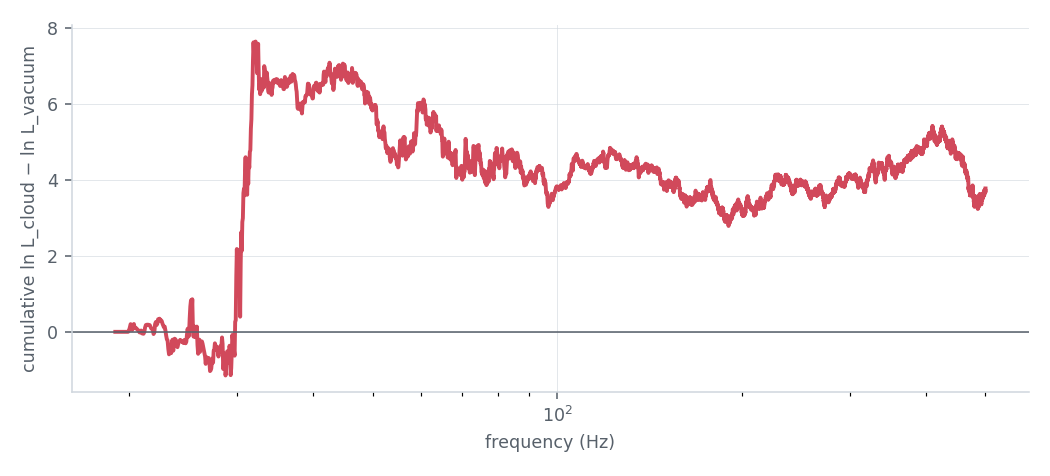
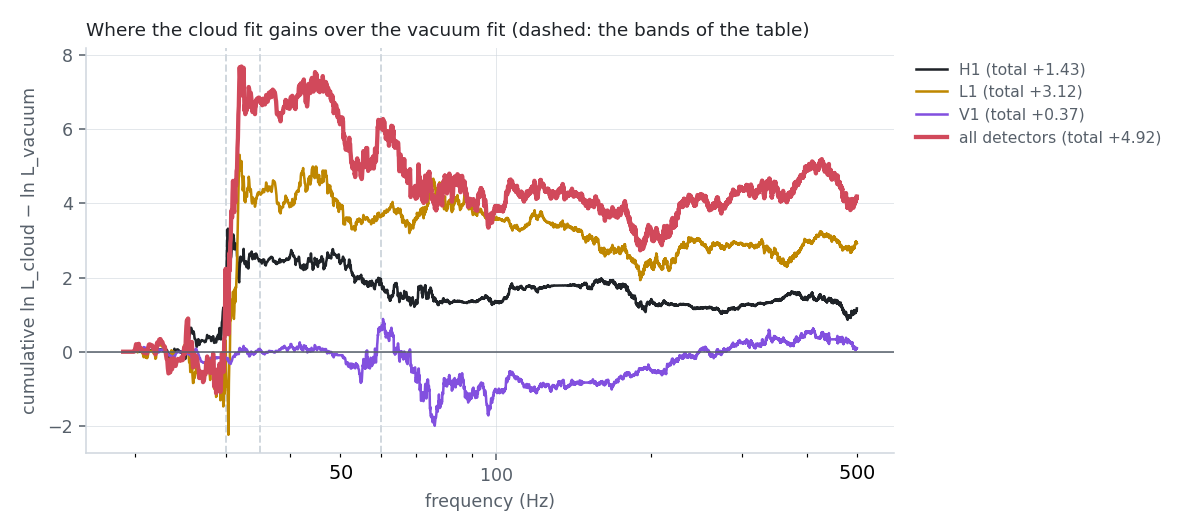
docs scalar_cloud: GW190728 section from the full run with 1000 live points (D = 9.78, p = 0.013, ln B 1.06 and -1.21), new figures with the matched-filter one; whitened overlay figure removed

Changed region(s): [[0.0, 0.0294, 0.9752, 0.9706], [0.5181, 0.2059, 0.5486, 0.2353]]

diff --git a/docs/modes/scalar-cloud.md b/docs/modes/scalar-cloud.md
@@ -8,7 +8,7 @@ tentative evidence for a scalar environment.
 
 ```bash
 gwtc_analysis scalar_cloud                                     # GW190728: prepare, first best fit, report (laptop, ~2 h)
-# the headline result (\(\mathcal{D}\) = 8.98) needs the samplings, then the fits seeded from them:
+# the headline result (\(\mathcal{D}\) = 9.78) needs the samplings, then the fits seeded from them:
 gwtc_analysis scalar_cloud --stages sample --executor slurm --submit \
     --python /path/to/env/bin/python --slurm-option=--partition=<partition>
 gwtc_analysis scalar_cloud --stages seeded --executor slurm --submit ...   # once the superradiance sampling is done
@@ -37,9 +37,9 @@ that analysis and adds a frequentist check around it.
 | Element | Why |
 |---|---|
 | best fits of both models and the **deviance** \(\mathcal{D}\) = 2 Δln L, the likelihood-ratio test statistic ([below](#the-test)) | a Bayes factor costs about a day on 64 CPUs per run; a best fit costs about an hour, so \(\mathcal{D}\) can be computed on the event *and* on 150 noise segments |
-| fits started from the samples of the superradiance sampling (`seeded`) | the cloud mode is separate from the vacuum one: fits started from the vacuum best fit miss it (\(\mathcal{D}\) = 0.96 instead of 8.98) |
+| fits started from the samples of the superradiance sampling (`seeded`) | the cloud mode is separate from the vacuum one: fits started from the vacuum best fit miss it (\(\mathcal{D}\) = 0.96 instead of 9.78) |
 | the background: the vacuum best fit injected into 150 off-source segments, p-value | the Bayes factor says which model the data prefer *given the priors*; it does not say how often noise alone produces such a preference. The background measures that, independently of the prior on the cloud |
-| the sensitivity (an injection–recovery test): the cloud best fit injected into the same segments | tells whether the event's \(\mathcal{D}\) is what a real cloud of that kind would give (it is lower: 4.7% of injections at or below it) |
+| the sensitivity (an injection–recovery test): the cloud best fit injected into the same segments | tells whether the event's \(\mathcal{D}\) is what a real cloud of that kind would give (it is lower: 5.3% of injections at or below it) |
 | the gain by detector and frequency band | a cloud dephases the whole low-frequency inspiral; a gain concentrated in a narrow band of one detector points to noise rather than to the effect |
 | the agnostic Bayes factor against the upper end of the density prior | the paper does not give that upper end, and the agnostic Bayes factor depends on it |
 | the boson mass in continuous waves | connects the result to the [continuous_waves](continuous-waves.md) mode |
@@ -50,11 +50,10 @@ that analysis and adds a frequentist check around it.
   spins);
 - \(1/(1+\delta)\) is kept, not linearised;
 - the agnostic upper end of the density is \(10^9\) g/cm³ (not given in the paper);
-- the likelihood has no calibration model and uses the PSDs of the PE file;
-- the two cloud samplings of GW190728 used 500 live points instead of 1000 (cost).
+- the likelihood has no calibration model and uses the PSDs of the PE file.
 
-These are the likely causes of the remaining differences (a superradiance Bayes factor of 1.3 against 3.5, a
-density about 5 times lower with the superradiance prior, a chirp-mass shift of 2.5% against 4.4%): see [Against the paper](#gw190728_064510).
+These are the likely causes of the remaining differences (a superradiance Bayes factor of 1.1 against 3.5, a
+density about 5 times lower with the superradiance prior, a chirp-mass shift of 2.4% against 4.4%): see [Against the paper](#gw190728_064510).
 
 ## The model
 
@@ -214,29 +213,30 @@ pool.
 
 ## GW190728_064510
 
-On a Slurm cluster (`--executor slurm`): the vacuum sampling with 1000 live points, the two cloud samplings with 500 (run by hand with `python -m gwtc_analysis.scalar_cloud sample --nlive 500`;
-the mode's own samplings use the paper's 1000) (64 CPUs with `--npool 64`; the default is 32,
-about a day each), 151 jobs of about an hour for the event and the background, 150 for the injections of the cloud
-best fit (`scalar_cloud.py seeded --inject cloud`).
+On a Slurm cluster (`--executor slurm`): the three samplings with the paper's 1000 live points (64 CPUs with
+`--npool 64`; the default is 32: 5.5 h for vacuum, 33 h for each cloud model), then 151 jobs of about an hour for
+the event and the background. The injections of a cloud best fit (`scalar_cloud.py seeded --inject cloud`, 150
+jobs) come from an earlier run, whose cloud samplings had 500 live points: see
+[Between two distributions](#gw190728_064510) below.
 
 | | ln L ratio | Note |
 |---|---|---|
 | catalog maximum-likelihood sample | 89.60 | 96.8 in the PE file (see Limits) |
-| vacuum best fit | 91.81 | Mc = 10.07 M☉, q = 0.55 (detector frame) |
-| cloud best fit | **96.30** | Mc = 10.11 M☉, q = 0.58, \(\bar\rho_\phi\) = 5.8 × 10⁶ g/cm³, α = 0.19 (\(m_\phi\) = 1.1 × 10⁻¹² eV), cloud mass 10⁻⁴ M, 38 rad of dephasing at 20 Hz |
+| vacuum best fit | 91.81 | Mc = 10.10 M☉, q = 0.54 (detector frame) |
+| cloud best fit | **96.70** | Mc = 10.10 M☉, q = 0.63, \(\bar\rho_\phi\) = 9.3 × 10⁶ g/cm³, α = 0.16 (\(m_\phi\) = 0.94 × 10⁻¹² eV), cloud mass 5 × 10⁻⁴ M, 38 rad of dephasing at 20 Hz |
 
 | Result | Here | Roy et al. |
 |---|---|---|
-| deviance \(\mathcal{D}\) | **8.98** | not used |
-| ln L cloud − ln L vacuum, best fits | 4.49 (\(\mathcal{D}/2\)) | not given |
-| ln L cloud − ln L vacuum, posterior medians (time-marginalized ln L of the samplings, lower than the fixed-time best fits above) | 4.20 superradiance, 4.05 agnostic | ≈ 3.7 (Supplemental Material, Fig. 8 inset) |
-| chirp mass (detector frame), posterior median and 90% | vacuum 10.14 (10.05–10.24), superradiance 9.89 (9.73–10.18), agnostic 9.88 (9.72–10.12) M☉ | vacuum 10.14 (+0.10/−0.09), cloud 9.69 (+0.27/−0.28) M☉ (Fig. 8) |
-| background | 2 of 151 at \(\mathcal{D}\) ≥ 8.98 (the event and one segment with a loud transient, \(\mathcal{D}\) = 112), p = 0.013; 0.007 without that segment; 147 of 150 below 4.1 | none (the paper's statistic is the Bayes factor) |
-| injections of the cloud best fit (sensitivity) | \(\mathcal{D}\) = 25 (5–95%: 9.9–44); 4.7% at or below the event's 8.98 | none |
-| ln B, superradiance prior (τ_d = 10⁶ yr); ± the statistical uncertainty of the nested-sampling evidences | **1.34 ± 0.30** | 3.5 |
-| ln B, agnostic prior (\(\bar\rho_\phi \le 10^9\) g/cm³) | **−0.82 ± 0.31** | 0.4 (upper end of the prior not given) |
-| \(\bar\rho_\phi\), agnostic (90%) | 3.2 (0.9–5.9) × 10⁷ g/cm³ | broad, peak ≈ 0.35 × 10⁸, up to ~1 × 10⁸ (read off Fig. 3, not stated in the text) |
-| \(\bar\rho_\phi\), superradiance | (0.18 ± 0.08) × 10⁸ g/cm³ | ≈ 0.9 (0.6–1.2) × 10⁸ (read off Fig. 3) |
+| deviance \(\mathcal{D}\) | **9.78** | not used |
+| ln L cloud − ln L vacuum, best fits | 4.89 (\(\mathcal{D}/2\)) | not given |
+| ln L cloud − ln L vacuum, posterior medians (time-marginalized ln L of the samplings, lower than the fixed-time best fits above) | 4.17 superradiance, 4.12 agnostic | ≈ 3.7 (Supplemental Material, Fig. 8 inset) |
+| chirp mass (detector frame), posterior median and 90% | vacuum 10.14 (10.05–10.23), superradiance 9.89 (9.72–10.16), agnostic 9.89 (9.71–10.15) M☉ | vacuum 10.14 (+0.10/−0.09), cloud 9.69 (+0.27/−0.28) M☉ (Fig. 8) |
+| background | 2 of 151 at \(\mathcal{D}\) ≥ 9.78 (the event and one segment with a loud transient, \(\mathcal{D}\) = 98), p = 0.013; 0.007 without that segment; the 149 others at most 7.0, 140 of them at 0 | none (the paper's statistic is the Bayes factor) |
+| injections of a cloud best fit (sensitivity; the earlier run's fit, see below) | \(\mathcal{D}\) = 25 (5–95%: 9.9–44); 5.3% at or below the event's 9.78 | none |
+| ln B, superradiance prior (τ_d = 10⁶ yr); ± the statistical uncertainty of the nested-sampling evidences | **1.06 ± 0.24** | 3.5 |
+| ln B, agnostic prior (\(\bar\rho_\phi \le 10^9\) g/cm³) | **−1.21 ± 0.25** | 0.4 (upper end of the prior not given) |
+| \(\bar\rho_\phi\), agnostic (90%) | 2.7 (0.8–5.8) × 10⁷ g/cm³ | broad, peak ≈ 0.35 × 10⁸, up to ~1 × 10⁸ (read off Fig. 3, not stated in the text) |
+| \(\bar\rho_\phi\), superradiance | (0.20 ± 0.08) × 10⁸ g/cm³ | ≈ 0.9 (0.6–1.2) × 10⁸ (read off Fig. 3) |
 
 The agnostic Bayes factor depends on the upper end of the uniform prior on \(\bar\rho_\phi\), which the paper does not
 give. The posterior lies below \(6 \times 10^7\) g/cm³; lowering the upper end (the prior fraction drawn from the
@@ -244,9 +244,9 @@ prior itself, the cloud-mass cap barely acts there):
 
 | upper end of \(\bar\rho_\phi\) (g/cm³) | 10⁹ | 5 × 10⁸ | 3 × 10⁸ | 2 × 10⁸ | 10⁸ | 5 × 10⁷ |
 |---|---|---|---|---|---|---|
-| ln B, agnostic | −0.82 | −0.16 | 0.34 | 0.73 | 1.40 | 1.90 |
+| ln B, agnostic | −1.21 | −0.54 | −0.05 | 0.35 | 1.01 | 1.58 |
 
-The paper's 0.4 corresponds to an upper end near \(3 \times 10^8\) g/cm³.
+The paper's 0.4 corresponds to an upper end near \(2 \times 10^8\) g/cm³.
 
 ![Matched-filter SNR of the catalog, vacuum and cloud fits of GW190728](../img/modes/scalar_cloud_matched_filter_GW190728.png)
 
@@ -265,23 +265,23 @@ coherent ln L of each fit, at its own time and phase: the statistic of the test.
 
 | | 20–30 Hz | 30–35 Hz | 35–60 Hz | > 60 Hz | total |
 |---|---|---|---|---|---|
-| H1 | +2.15 | +0.31 | −0.59 | −0.91 | +0.96 |
-| L1 | −0.55 | **+4.69** | −0.40 | −0.77 | +2.96 |
-| V1 | −0.15 | +0.17 | +0.42 | +0.12 | +0.57 |
-| all | +1.45 | **+5.17** | −0.57 | −1.56 | +4.49 |
+| H1 | +2.18 | +0.33 | −0.52 | −0.57 | +1.41 |
+| L1 | −0.51 | **+4.72** | −0.49 | −0.60 | +3.12 |
+| V1 | −0.16 | +0.24 | +0.48 | −0.20 | +0.36 |
+| all | +1.51 | **+5.29** | −0.53 | −1.38 | +4.89 |
 
 The gain does not accumulate over the inspiral, as a dephasing growing towards low frequencies would: it sits in a
 few bins between 29.8 and 31.9 Hz, mostly in L1, and the cloud fit is slightly worse than vacuum above 35 Hz. The
 noise spectra have no line there. A concentration at low frequency is what this cloud would give: with 38 rad of
-dephasing at 20 Hz, the cloud and vacuum fits are nearly orthogonal below 35 Hz, where the signal has only about 10
-of its ≈ 200 units of SNR², and that is where they differ most. Half their squared distance, \(\frac12\lVert h_\text{cloud}
+dephasing at 20 Hz, the cloud and vacuum fits are nearly orthogonal below 35 Hz, where the signal has only about 12
+of its ≈ 180 units of SNR², and that is where they differ most. Half their squared distance, \(\frac12\lVert h_\text{cloud}
 - h_\text{vacuum}\rVert^2\), the gain expected from noise-free data holding the cloud signal, is per band:
 
 | | 20–30 Hz | 30–35 Hz | 35–60 Hz | > 60 Hz | total |
 |---|---|---|---|---|---|
-| H1 | 0.89 | 1.33 | 0.50 | 1.69 | 4.42 |
-| L1 | 3.95 | 4.03 | 1.07 | 1.74 | 10.79 |
-| V1 | 0.06 | 0.08 | 0.62 | 2.02 | 2.77 |
+| H1 | 0.88 | 1.29 | 0.52 | 0.92 | 3.61 |
+| L1 | 3.91 | 3.80 | 1.10 | 1.59 | 10.40 |
+| V1 | 0.06 | 0.08 | 0.60 | 2.25 | 2.98 |
 
 The observed gain follows it in L1 between 30 and 35 Hz only, not below 30 Hz nor in H1. Whether the data around
 30 Hz hold a noise fluctuation or the signal is the open question; the background says that noise rarely gives as
@@ -289,9 +289,11 @@ much near this mode.
 
 ![Background of 𝒟 and injections of the cloud best fit](../img/modes/scalar_cloud_background_GW190728.png)
 
-**Between two distributions.** The same procedure on the event's cloud best fit injected into the 150 off-source
-segments gives \(\mathcal{D}\) around 25, the density and α recovered without bias (median 8.4 × 10⁶ g/cm³ and 0.16 for 5.8 × 10⁶
-and 0.19 injected): 4.7% of these injections give \(\mathcal{D}\) ≤ 8.98. The event is above what noise gives around vacuum
+**Between two distributions.** The injections of a cloud were not repeated for this run: they are those of an
+earlier run (cloud samplings with 500 live points), whose cloud best fit was \(\bar\rho_\phi\) = 5.8 × 10⁶ g/cm³ and
+α = 0.19 (ln L 96.30, \(\mathcal{D}\) = 8.98), close to the present one. The same procedure on that fit injected into
+the 150 off-source segments gives \(\mathcal{D}\) around 25, the density and α recovered near the injected values
+(median 8.4 × 10⁶ g/cm³ and 0.16): 5.3% of these injections give \(\mathcal{D}\) ≤ 9.78. The event is above what noise gives around vacuum
 (p ≈ 0.01) and below what this cloud would give (≈ 5%): a weaker effect, or a noise fluctuation at 30 Hz on a
 vacuum signal, fits both better than the best-fit cloud.
 
@@ -300,25 +302,25 @@ vacuum signal, fits both better than the best-fit cloud.
 **Against the paper.** The paper's statistic is the Bayes factor: it gives no best fit, no background and no
 p-value, so \(\mathcal{D}\), the background and the injections have no published counterpart. What can be compared: a cloud mode
 with a density of 10⁷ g/cm³ and α of a few 0.1; a median likelihood gain over the posterior of 4.2 (superradiance)
-and 4.05 (agnostic), against the paper's 3.7 (the best-fit gain, 4.49, is a maximum, not comparable); an
-agnostic Bayes factor that matches theirs for a prior up to about \(3 \times 10^8\) g/cm³; but a smaller Bayes
-factor with the superradiance prior (1.3 against 3.5) and a density about 5 times lower with that prior (the agnostic densities agree). The chirp-mass shift is
+and 4.1 (agnostic), against the paper's 3.7 (the best-fit gain, 4.89, is a maximum, not comparable); an
+agnostic Bayes factor that matches theirs for a prior up to about \(2 \times 10^8\) g/cm³; but a smaller Bayes
+factor with the superradiance prior (1.1 against 3.5) and a density about 5 times lower with that prior (the agnostic densities agree). The chirp-mass shift is
 reproduced in the posteriors, smaller: the vacuum posterior, 10.14 M☉ (detector frame), is the paper's exactly
-(which places its values in the detector frame too), and the cloud posteriors sit at 9.89 M☉, 2.5% below it, against
-4.4% below (9.69 M☉) in the paper. The cloud best fit (10.11 M☉) is not in the bulk of the cloud posterior: the fits
+(which places its values in the detector frame too), and the cloud posteriors sit at 9.89 M☉, 2.4% below it, against
+4.4% below (9.69 M☉) in the paper. The cloud best fit (10.10 M☉) is not in the bulk of the cloud posterior: the fits
 find the highest point of the cloud mode, the posterior weighs its volume. Differences that can contribute: the frame of the correction (J
-frame here, co-precessing there), the PSDs and the likelihood (ln L 7 below the PE file's), 500 live points instead
-of 1000, and the normalisation of the torque, which sets the density for a given dephasing.
+frame here, co-precessing there), the PSDs and the likelihood (ln L 7 below the PE file's), and the normalisation of the torque, which sets the density for a given dephasing.
 
 ### The same boson in continuous waves
 
-Per sample (each with its own source-frame mass), the scalar mass is \(m_\phi = 0.89\) (90%: 0.70–1.17) × 10⁻¹² eV
-with the superradiance prior and 0.73 (0.56–1.14) × 10⁻¹² eV with the agnostic one. A cloud of such bosons around
-an isolated spinning black hole would annihilate into a continuous wave at \(2 m_\phi c^2/h\) = **340–570 Hz**,
+Per sample (each with its own source-frame mass), the scalar mass is \(m_\phi = 0.86\) (90%: 0.67–1.17) × 10⁻¹² eV
+with the superradiance prior and 0.78 (0.57–1.26) × 10⁻¹² eV with the agnostic one. A cloud of such bosons around
+an isolated spinning black hole would annihilate into a continuous wave at \(2 m_\phi c^2/h\) = **324–568 Hz**,
 inside the band of the LVK all-sky search for boson clouds in O3 (20–610 Hz). That search excludes, at these masses,
 young clouds around light black holes (8–28 M☉) out to some kpc, but says nothing of a cloud carried by a binary,
 and its limits constrain the boson only together with a model of the Galactic black holes. The
-[continuous_waves](continuous-waves.md#boson-clouds-and-gw190728) mode draws its exclusions with this band.
+[continuous_waves](continuous-waves.md#boson-clouds-and-gw190728) mode draws its exclusions with the band of the earlier run by default
+(0.70–1.17 × 10⁻¹² eV, 340–570 Hz), nearly the same; `--boson-mass` sets another.
 
 ### The same boson and black-hole spins
 
@@ -334,7 +336,7 @@ The paper discusses this in its Discussion [\[100\]](../references.md#ref-100):
 - "joint spin measurements from the full GWTC-2 showed weak evidence for a light scalar in the mass range
   suggested by our analysis" (Ng et al. 2021).
 
-The band found here, 0.70–1.17 × 10⁻¹² eV, lies mostly below that value: only its upper end escapes the
+The band found here, 0.67–1.17 × 10⁻¹² eV, lies mostly below that value: only its upper end escapes the
 GW190517 constraint. The tension concerns the boson, not the fit, and the mode does not test it.
 
 ## Limits
@@ -377,5 +379,5 @@ GW190517 constraint. The tension concerns the boson, not the fit, and the mode d
 | `--data-repo {zenodo,s3,galaxy}` | `zenodo` | where the PE file are downloaded from: their public sources, or a mirror holding the same files, `s3` (the MinIO bucket, faster) or `galaxy` (the public usegalaxy.org history), else the public source ([S3 mirror of the public files](../data-sources.md#s3-mirror-of-the-public-files)) |
 
 Cost for GW190728 (16 s at 2048 Hz): a vacuum likelihood 0.035 s, a cloud likelihood 0.2 s (the modes of LAL). The
-best fit takes about 2 CPU-hours, each background injection about 2 (1 with `seeded`), the nested sampling of the
-cloud models about a day on 64 CPUs with 500 live points (a cluster job).
+best fit takes about 2 CPU-hours, each background injection about 2 (1 with `seeded`), the nested sampling of each
+cloud model about a day and a half on 64 CPUs with 1000 live points (a cluster job).

diff --git a/docs/cluster.md b/docs/cluster.md
@@ -19,7 +19,7 @@ Measured costs of the heavy stages (on CC-IN2P3):
 | `hubble_constant --method dark`, GLADE+ K band | runs of 8–10 h (Power Law + Peak) and 15–25 h (Multi Peak) on 8 CPUs each | cluster |
 | reweighting of a spectral or dark siren to all the injections and 5000 PE samples | 16–32 chunks of 2–9 min | cluster, in the same chain |
 | `galaxy_catalog`, GLADE+ K band | about 1 h on 4 CPUs on one machine; 45 min as 32 array jobs | either; a cluster for deeper catalogs (DES, Rubin) |
-| `scalar_cloud`, GW190728 | about 2 CPU-hours per fit; 150 background injections of 1–2 CPU-hours; nested sampling of each cloud model about a day on 64 CPUs with 500 live points | cluster |
+| `scalar_cloud`, GW190728 | about 2 CPU-hours per fit; 150 background injections of 1–2 CPU-hours; nested sampling of each cloud model about a day and a half on 64 CPUs with 1000 live points | cluster |
 | `hubble_constant --method bright` and `--method joint`, the other modes | seconds to minutes | one machine |
 
 On one machine, a spectral siren at 8 CPUs, one seed after another, takes about 1.5 days (Power Law + Peak) to

diff --git a/CHANGELOG.md b/CHANGELOG.md
@@ -16,6 +16,11 @@
 
 ### Changes
 
+- **scalar_cloud** docs: the GW190728 section follows a new full run with the paper's 1000 live points for the
+  three samplings: 𝒟 = 9.78 (was 8.98), p = 0.013 against 150 vacuum injections, ln B = 1.06 ± 0.24 with the
+  superradiance prior and −1.21 ± 0.25 with the agnostic one (were 1.34 and −0.82); boson mass 0.67–1.17 × 10⁻¹² eV,
+  continuous waves at 324–568 Hz. The injections of a cloud best fit are those of the earlier run. The
+  matched-filter figure replaces the whitened strain overlay.
 - **scalar_cloud**: the mean density of the cloud keeps the bar of the paper's ρ̄_φ in the code: the sampling
   parameter and result key `rho_phi` is now `rhobar_phi` (`rhobar` in the profile points, `rhobar_g_cm3` in the
   report, `rhobar_cgs` in the functions). Work directories and sampling results written before are still read,
